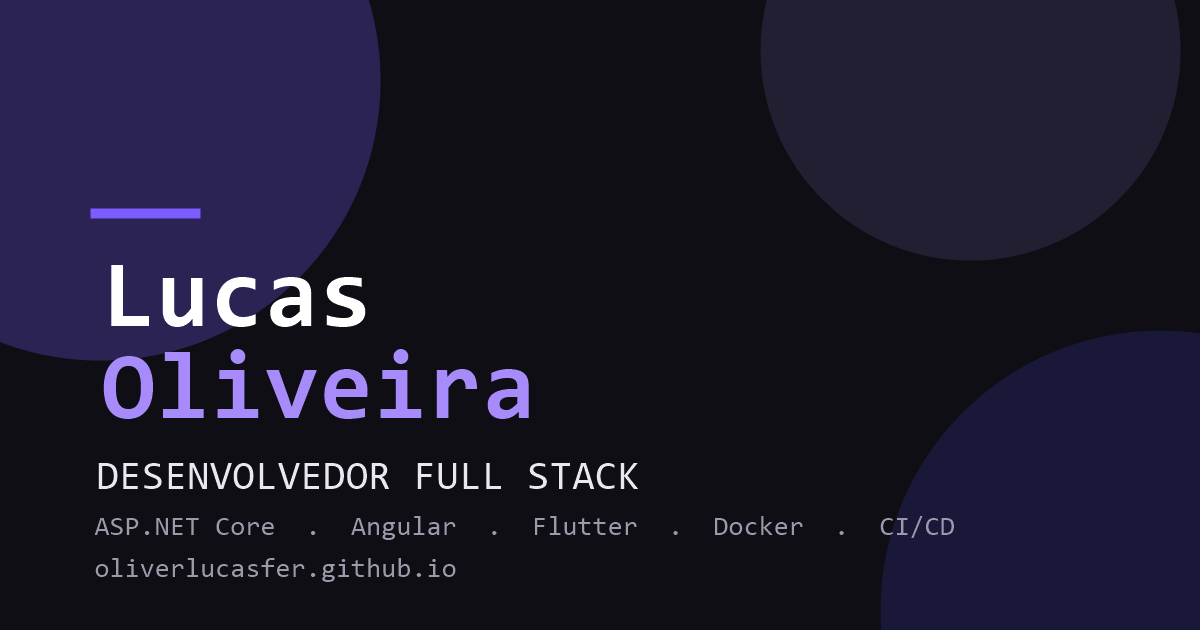
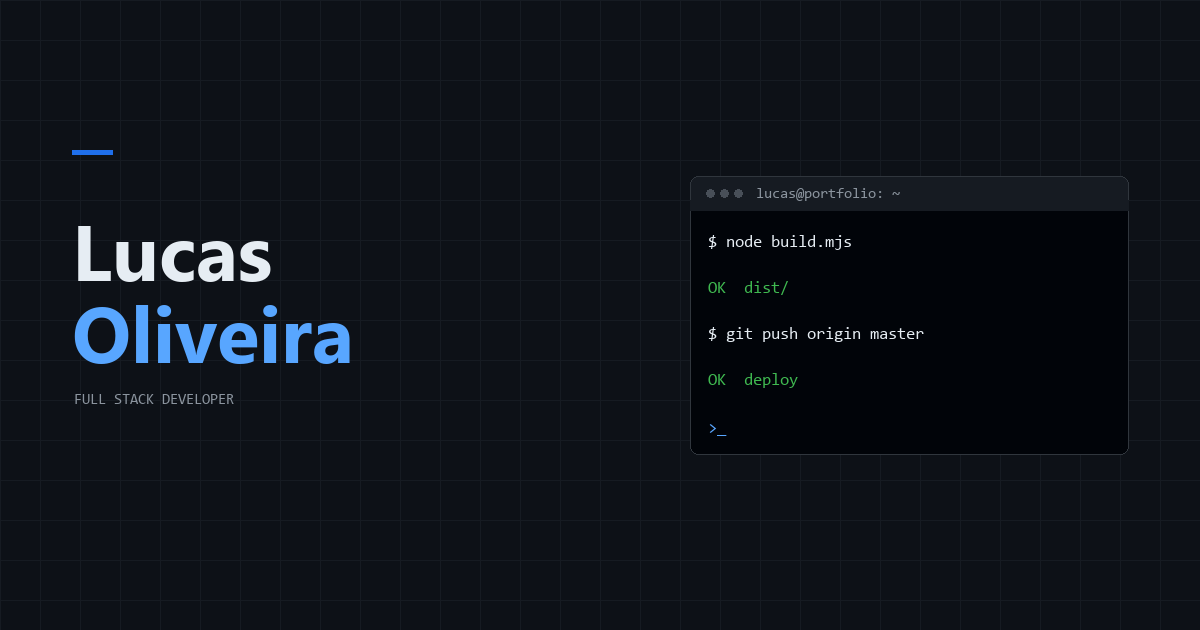
chore: adiciona check de UI e atualiza og cover

diff --git a/scripts/make-og.py b/scripts/make-og.py
@@ -1,0 +1,72 @@
+from pathlib import Path
+from PIL import Image, ImageDraw, ImageFont
+
+W, H = 1200, 630
+OUT = Path(__file__).resolve().parent.parent / "media" / "og-cover.png"
+BG = "#0D1117"
+GRID = "#161B22"
+BORDER = "#30363D"
+TEXT = "#E6EDF3"
+MUTED = "#8B949E"
+ACCENT = "#58A6FF"
+STRONG = "#1F6FEB"
+OK = "#3FB950"
+
+img = Image.new("RGB", (W, H), BG)
+draw = ImageDraw.Draw(img)
+
+# grade sutil
+for x in range(0, W, 40):
+    draw.line([(x, 0), (x, H)], fill=GRID, width=1)
+for y in range(0, H, 40):
+    draw.line([(0, y), (W, y)], fill=GRID, width=1)
+
+bold_candidates = [
+    r"C:\Windows\Fonts\segoeuib.ttf",
+    r"C:\Windows\Fonts\arialbd.ttf",
+]
+mono_candidates = [
+    r"C:\Windows\Fonts\consola.ttf",
+    r"C:\Windows\Fonts\cour.ttf",
+]
+
+def load(paths, size):
+    for candidate in paths:
+        if Path(candidate).exists():
+            return ImageFont.truetype(candidate, size)
+    return ImageFont.load_default()
+
+name_font = load(bold_candidates, 78)
+label_font = load(mono_candidates, 15)
+terminal_font = load(mono_candidates, 17)
+
+# marca
+draw.rectangle((72, 150, 112, 154), fill=STRONG)
+draw.text((72, 196), "Lucas", font=name_font, fill=TEXT)
+draw.text((72, 278), "Oliveira", font=name_font, fill=ACCENT)
+draw.text((74, 392), "FULL STACK DEVELOPER", font=label_font, fill=MUTED)
+
+# terminal
+tx, ty, tw, th = 690, 176, 438, 278
+draw.rounded_rectangle((tx, ty, tx + tw, ty + th), radius=8, fill="#010409", outline=BORDER, width=1)
+draw.rounded_rectangle((tx, ty, tx + tw, ty + 34), radius=8, fill="#161B22", outline=BORDER, width=1)
+draw.rectangle((tx, ty + 24, tx + tw, ty + 34), fill="#161B22")
+for i, color in enumerate(["#484F58", "#484F58", "#484F58"]):
+    cx = tx + 16 + i * 14
+    draw.ellipse((cx, ty + 13, cx + 8, ty + 21), fill=color)
+draw.text((tx + 66, ty + 10), "lucas@portfolio: ~", font=label_font, fill=MUTED)
+
+lines = [
+    ("$ node build.mjs", TEXT),
+    ("OK  dist/", OK),
+    ("$ git push origin master", TEXT),
+    ("OK  deploy", OK),
+]
+for i, (line, color) in enumerate(lines):
+    draw.text((tx + 18, ty + 58 + i * 46), line, font=terminal_font, fill=color)
+
+draw.text((tx + 18, ty + 244), ">_", font=terminal_font, fill=ACCENT)
+
+OUT.parent.mkdir(parents=True, exist_ok=True)
+img.save(OUT, "PNG", optimize=True)
+print(OUT, img.size, OUT.stat().st_size)

diff --git a/README.md b/README.md
@@ -16,10 +16,11 @@ assets/
   fonts/             # woff2 das fontes (Inter + JetBrains Mono, variáveis)
   js/app.js          # JS do cliente (tema, filtros, contadores, GitHub, formulário)
   css/               # estilos (tema claro/escuro via [data-theme], fonte e keyframes inclusos)
-  vendor/lenis.min.js
 build.mjs            # gerador do site (Node puro, zero dependências)
 scripts/
   check-lighthouse.mjs
+  check-ui.mjs       # regressões de estrutura, tokens e conteúdo
+  make-og.py         # gera o OG cover 1200x630
 .github/workflows/
   deploy.yml         # build + deploy no GitHub Pages
   lighthouse.yml     # auditoria de performance/acessibilidade/SEO
@@ -58,6 +59,10 @@ O workflow `.github/workflows/deploy.yml` faz build e publica `dist/` no GitHub 
 
 `.github/workflows/lighthouse.yml` roda a cada push em `master`/PR, mede as páginas home e um projeto e valida os budgets em `scripts/check-lighthouse.mjs` (Performance ≥ 90, Acessibilidade ≥ 95, SEO = 100). Falhas no budget bloqueiam o fluxo.
 
+## Check de UI
+
+`node build.mjs && node scripts/check-ui.mjs` valida tokens, estrutura das seções, 20 case pages, 404, temas e ausência do legado visual (Lenis, grain, scroll-progress, hero PNG).
+
 ## Checklist antes de publicar
 
 - [ ] **Revisar `data/projects.json`**: as páginas dos projetos da empresa estão anonimizadas (sem cliente, sem métricas internas) — confirme que nada fere confidencialidade.
@@ -70,7 +75,7 @@ O workflow `.github/workflows/deploy.yml` faz build e publica `dist/` no GitHub 
 - Versão EN com URLs próprias (`/en/`) + `hreflang` + `sitemap.xml` + JSON-LD (schema.org Person/CreativeWork)
 - Página de projeto em `/projetos/<slug>/` e `/en/projects/<slug>/`
 - Ícones de tecnologia em sprite SVG local (zero requests externos de ícone)
-- Scroll suave (Lenis local), reveal on scroll, tipografia animada — todos desativados com `prefers-reduced-motion`
+- Reveal on scroll, hover, typing e contadores — desativados com `prefers-reduced-motion`; conteúdo visível sem JS
 - Card do GitHub com dados da API pública (some graciosamente offline)
 - Fontes self-hosted (woff2) — sem dependência externa de fonts
 - Página 404 e `robots.txt`
